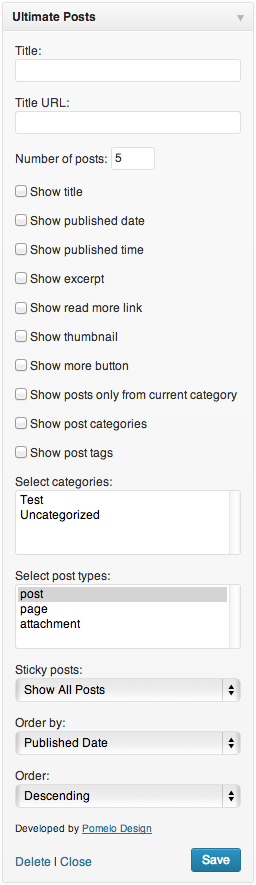
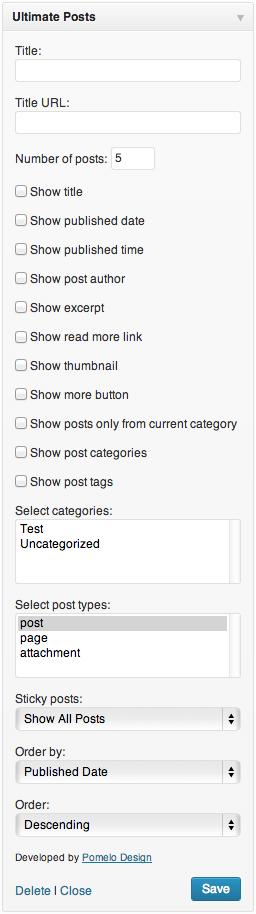
v1.7

diff --git a/ultimate-posts-widget.php b/ultimate-posts-widget.php
@@ -1,10 +1,10 @@
 <?php
 /*
 Plugin Name: Ultimate Posts Widget
-Plugin URI: http://pomelodesign.com/ultimate-posts-widget
+Plugin URI: http://wordpress.org/plugins/ultimate-posts-widget/
 Description: The ultimate widget for displaying posts, custom post types or sticky posts with an array of options.
-Version: 1.6
-Author: Pomelo Design
+Version: 1.7
+Author: Boston Dell-Vandenberg
 Author URI: http://pomelodesign.com
 License: GPL2
 
@@ -42,6 +42,9 @@ if ( !class_exists( 'WP_Widget_Ultimate_Posts' ) ) {
 		}
 
 		function widget( $args, $instance ) {
+
+			global $post;
+			$current_post_id =  $post->ID;
 
 			if( !function_exists('get_image_path') ) {
 				function get_image_path($src) {
@@ -144,11 +147,9 @@ if ( !class_exists( 'WP_Widget_Ultimate_Posts' ) ) {
 
 				while ( $r->have_posts() ) : $r->the_post();
 
-					global $post;
-
 					?>
 
-					<li>
+					<li class="<?php echo ($post->ID == $current_post_id && is_single())?'current-post-item':'' ?>">
 
 						<?php
 							if ( function_exists('the_post_thumbnail') &&
@@ -188,6 +189,13 @@ if ( !class_exists( 'WP_Widget_Ultimate_Posts' ) ) {
 										the_time(get_option('time_format'));
 									}
 									?>
+								</p>
+							<?php endif; ?>
+
+							<?php if( $instance['show_author'] ) : ?>
+								<p class="post-author">
+									<span class="post-author-label"><?php _e('By', 'upw'); ?>:</span>
+									<?php the_author_posts_link(); ?>
 								</p>
 							<?php endif; ?>
 
@@ -243,35 +251,32 @@ if ( !class_exists( 'WP_Widget_Ultimate_Posts' ) ) {
 		function update( $new_instance, $old_instance ) {
 			$instance = $old_instance;
 
-			//Let's turn that array into something the Wordpress database can store
-			$types = implode(',', (array)$new_instance['types']);
-			$cats = implode(',', (array)$new_instance['cats']);
-
 			$instance['title'] = strip_tags( $new_instance['title'] );
 			$instance['title_link'] = strip_tags( $new_instance['title_link'] );
 			$instance['number'] = strip_tags( $new_instance['number'] );
-			$instance['types'] = $types;
-			$instance['cats'] = $cats;
-			$instance['atcat'] = $new_instance['atcat'];
-			$instance['show_excerpt'] = $new_instance['show_excerpt'];
-			$instance['show_thumbnail'] = $new_instance['show_thumbnail'];
-			$instance['show_date'] = $new_instance['show_date'];
-			$instance['show_time'] = $new_instance['show_time'];
-			$instance['show_title'] = $new_instance['show_title'];
+			$instance['types'] = (isset( $new_instance['types'] )) ? implode(',', (array) $new_instance['types']) : '';
+			$instance['cats'] = (isset( $new_instance['cats'] )) ? implode(',', (array) $new_instance['cats']) : '';
+			$instance['atcat'] = isset( $new_instance['atcat'] );
+			$instance['show_excerpt'] = isset( $new_instance['show_excerpt'] );
+			$instance['show_thumbnail'] = isset( $new_instance['show_thumbnail'] );
+			$instance['show_date'] = isset( $new_instance['show_date'] );
+			$instance['show_time'] = isset( $new_instance['show_time'] );
+			$instance['show_title'] = isset( $new_instance['show_title'] );
+			$instance['show_author'] = isset( $new_instance['show_author'] );
 			$instance['thumb_w'] = strip_tags( $new_instance['thumb_w'] );
 			$instance['thumb_h'] = strip_tags( $new_instance['thumb_h'] );
 			$instance['thumb_crop'] = $new_instance['thumb_crop'];
-			$instance['show_readmore'] = $new_instance['show_readmore'];
+			$instance['show_readmore'] = isset( $new_instance['show_readmore']);
 			$instance['excerpt_length'] = strip_tags( $new_instance['excerpt_length'] );
 			$instance['excerpt_readmore'] = strip_tags( $new_instance['excerpt_readmore'] );
 			$instance['sticky'] = $new_instance['sticky'];
 			$instance['order'] = $new_instance['order'];
 			$instance['orderby'] = $new_instance['orderby'];
-			$instance['show_morebutton'] = $new_instance['show_morebutton'];
+			$instance['show_morebutton'] = isset( $new_instance['show_morebutton'] );
 			$instance['morebutton_url'] = strip_tags( $new_instance['morebutton_url'] );
 			$instance['morebutton_text'] = strip_tags( $new_instance['morebutton_text'] );
-			$instance['show_cats'] = $new_instance['show_cats'];
-			$instance['show_tags'] = $new_instance['show_tags'];
+			$instance['show_cats'] = isset( $new_instance['show_cats'] );
+			$instance['show_tags'] = isset( $new_instance['show_tags'] );
 
 
 			$this->flush_widget_cache();
@@ -292,53 +297,63 @@ if ( !class_exists( 'WP_Widget_Ultimate_Posts' ) ) {
 
 		function form( $instance ) {
 
-			// instance exist? if not set defaults
-			if ( $instance ) {
-				$title  = $instance['title'];
-				$title_link  = $instance['title_link'];
-				$number = $instance['number'];
-				$types  = $instance['types'];
-				$cats = $instance['cats'];
-				$thumb_w = $instance['thumb_w'];
-				$thumb_h = $instance['thumb_h'];
-				$thumb_crop = $instance['thumb_crop'];
-				$excerpt_length = $instance['excerpt_length'];
-				$excerpt_readmore = $instance['excerpt_readmore'];
-				$order = $instance['order'];
-				$orderby = $instance['orderby'];
-				$morebutton_text = $instance['morebutton_text'];
-				$morebutton_url = $instance['morebutton_url'];
-				$sticky = $instance['sticky'];
-				$show_cats = $instance['show_cats'];
-				$show_tags = $instance['show_tags'];
-			} else {
-				//These are our defaults
-				$title  = '';
-				$title_link = '';
-				$number = '5';
-				$types  = 'post';
-				$cats = '';
-				$thumb_w = 100;
-				$thumb_h = 100;
-				$thumb_crop = 1;
-				$excerpt_length = 10;
-				$excerpt_readmore = __('Read more &rarr;', 'upw');
-				$order = 'DESC';
-				$orderby = 'date';
-				$morebutton_text = __('View More Posts', 'upw');
-				$morebutton_url = get_bloginfo('url');
-				$sticky = 'show';
-				$instance['show_title'] = false;
-				$instance['show_date'] = false;
-				$instance['show_time'] = false;
-				$instance['show_excerpt'] = false;
-				$instance['show_readmore'] = false;
-				$instance['show_thumbnail'] = false;
-				$instance['show_morebutton'] = false;
-				$instance['atcat'] = false;
-				$instance['show_cats'] = false;
-				$instance['show_tags'] = false;
-			}
+			// Set default arguments
+			$instance = wp_parse_args( (array) $instance, array(
+				'title' => '',
+				'title_link' => '' ,
+				'number' => '5',
+				'types' => 'post',
+				'cats' => '',
+				'atcat' => false,
+				'thumb_w' => 100,
+				'thumb_h' => 100,
+				'thumb_crop' => 1,
+				'excerpt_length' => 10,
+				'excerpt_readmore' => __('Read more &rarr;', 'upw'),
+				'order' => 'DESC',
+				'orderby' => 'date',
+				'morebutton_text' => __('View More Posts', 'upw'),
+				'morebutton_url' => site_url(),
+				'sticky' => 'show',
+				'show_cats' => false,
+				'show_tags' => false,
+				'show_title' => false,
+				'show_date' => false,
+				'show_time' => false,
+				'show_author' => false,
+				'show_excerpt' => false,
+				'show_readmore' => false,
+				'show_thumbnail' => false,
+				'show_morebutton' => false
+			) );
+
+			// Or use the instance
+			$title  = strip_tags($instance['title']);
+			$title_link  = strip_tags($instance['title_link']);
+			$number = strip_tags($instance['number']);
+			$types  = $instance['types'];
+			$cats = $instance['cats'];
+			$atcat = $instance['atcat'];
+			$thumb_w = strip_tags($instance['thumb_w']);
+			$thumb_h = strip_tags($instance['thumb_h']);
+			$thumb_crop = strip_tags($instance['thumb_crop']);
+			$excerpt_length = strip_tags($instance['excerpt_length']);
+			$excerpt_readmore = strip_tags($instance['excerpt_readmore']);
+			$order = $instance['order'];
+			$orderby = $instance['orderby'];
+			$morebutton_text = strip_tags($instance['morebutton_text']);
+			$morebutton_url = strip_tags($instance['morebutton_url']);
+			$sticky = $instance['sticky'];
+			$show_cats = $instance['show_cats'];
+			$show_tags = $instance['show_tags'];
+			$show_title = $instance['show_title'];
+			$show_date = $instance['show_date'];
+			$show_time = $instance['show_time'];
+			$show_author = $instance['show_author'];
+			$show_excerpt = $instance['show_excerpt'];
+			$show_readmore = $instance['show_readmore'];
+			$show_thumbnail = $instance['show_thumbnail'];
+			$show_morebutton = $instance['show_morebutton'];
 
 			//Let's turn $types and $cats into an array
 			$types = explode(',', $types);
@@ -372,22 +387,27 @@ if ( !class_exists( 'WP_Widget_Ultimate_Posts' ) ) {
 			<input id="<?php echo $this->get_field_id( 'number' ); ?>" name="<?php echo $this->get_field_name( 'number' ); ?>" type="text" value="<?php echo $number; ?>" size="2" /></p>
 
 			<p>
-				<input class="checkbox" id="<?php echo $this->get_field_id( 'show_title' ); ?>" name="<?php echo $this->get_field_name( 'show_title' ); ?>" type="checkbox" <?php checked( (bool) $instance["show_title"], true ); ?> />
+				<input class="checkbox" id="<?php echo $this->get_field_id( 'show_title' ); ?>" name="<?php echo $this->get_field_name( 'show_title' ); ?>" type="checkbox" <?php checked( (bool) $show_title, true ); ?> />
 				<label for="<?php echo $this->get_field_id( 'show_title' ); ?>"><?php _e( 'Show title', 'upw' ); ?></label>
 			</p>
 
 			<p>
-				<input class="checkbox" id="<?php echo $this->get_field_id( 'show_date' ); ?>" name="<?php echo $this->get_field_name( 'show_date' ); ?>" type="checkbox" <?php checked( (bool) $instance["show_date"], true ); ?> />
+				<input class="checkbox" id="<?php echo $this->get_field_id( 'show_date' ); ?>" name="<?php echo $this->get_field_name( 'show_date' ); ?>" type="checkbox" <?php checked( (bool) $show_date, true ); ?> />
 				<label for="<?php echo $this->get_field_id( 'show_date' ); ?>"><?php _e( 'Show published date', 'upw' ); ?></label>
 			</p>
 
 			<p>
-				<input class="checkbox" id="<?php echo $this->get_field_id( 'show_time' ); ?>" name="<?php echo $this->get_field_name( 'show_time' ); ?>" type="checkbox" <?php checked( (bool) $instance["show_time"], true ); ?> />
+				<input class="checkbox" id="<?php echo $this->get_field_id( 'show_time' ); ?>" name="<?php echo $this->get_field_name( 'show_time' ); ?>" type="checkbox" <?php checked( (bool) $show_time, true ); ?> />
 				<label for="<?php echo $this->get_field_id( 'show_time' ); ?>"><?php _e( 'Show published time', 'upw' ); ?></label>
 			</p>
 
 			<p>
-				<input class="checkbox" id="<?php echo $this->get_field_id( 'show_excerpt' ); ?>" name="<?php echo $this->get_field_name( 'show_excerpt' ); ?>" type="checkbox" <?php checked( (bool) $instance["show_excerpt"], true ); ?> />
+				<input class="checkbox" id="<?php echo $this->get_field_id( 'show_author' ); ?>" name="<?php echo $this->get_field_name( 'show_author' ); ?>" type="checkbox" <?php checked( (bool) $show_author, true ); ?> />
+				<label for="<?php echo $this->get_field_id( 'show_author' ); ?>"><?php _e( 'Show post author', 'upw' ); ?></label>
+			</p>
+
+			<p>
+				<input class="checkbox" id="<?php echo $this->get_field_id( 'show_excerpt' ); ?>" name="<?php echo $this->get_field_name( 'show_excerpt' ); ?>" type="checkbox" <?php checked( (bool) $show_excerpt, true ); ?> />
 				<label for="<?php echo $this->get_field_id( 'show_excerpt' ); ?>"><?php _e( 'Show excerpt', 'upw' ); ?></label>
 			</p>
 
@@ -398,7 +418,7 @@ if ( !class_exists( 'WP_Widget_Ultimate_Posts' ) ) {
 
 			<p>
 				<label for="<?php echo $this->get_field_id('show_readmore'); ?>">
-				<input type="checkbox" class="checkbox" id="<?php echo $this->get_field_id('show_readmore'); ?>" name="<?php echo $this->get_field_name('show_readmore'); ?>"<?php checked( (bool) $instance["show_readmore"], true ); ?> />
+				<input type="checkbox" class="checkbox" id="<?php echo $this->get_field_id('show_readmore'); ?>" name="<?php echo $this->get_field_name('show_readmore'); ?>"<?php checked( (bool) $show_readmore, true ); ?> />
 				<?php _e( 'Show read more link', 'upw' ); ?>
 				</label>
 			</p>
@@ -411,7 +431,7 @@ if ( !class_exists( 'WP_Widget_Ultimate_Posts' ) ) {
 			<?php if ( function_exists('the_post_thumbnail') && current_theme_supports( 'post-thumbnails' ) ) : ?>
 
 				<p>
-					<input class="checkbox" id="<?php echo $this->get_field_id( 'show_thumbnail' ); ?>" name="<?php echo $this->get_field_name( 'show_thumbnail' ); ?>" type="checkbox" <?php checked( (bool) $instance["show_thumbnail"], true ); ?> />
+					<input class="checkbox" id="<?php echo $this->get_field_id( 'show_thumbnail' ); ?>" name="<?php echo $this->get_field_name( 'show_thumbnail' ); ?>" type="checkbox" <?php checked( (bool) $show_thumbnail, true ); ?> />
 					<label for="<?php echo $this->get_field_id( 'show_thumbnail' ); ?>"><?php _e( 'Show thumbnail', 'upw' ); ?></label>
 				</p>
 
@@ -440,7 +460,7 @@ if ( !class_exists( 'WP_Widget_Ultimate_Posts' ) ) {
 			<?php endif; ?>
 
 			<p>
-				<input type="checkbox" class="checkbox" id="<?php echo $this->get_field_id('show_morebutton'); ?>" name="<?php echo $this->get_field_name('show_morebutton'); ?>" <?php checked( (bool) $instance['show_morebutton'], true ); ?> />
+				<input type="checkbox" class="checkbox" id="<?php echo $this->get_field_id('show_morebutton'); ?>" name="<?php echo $this->get_field_name('show_morebutton'); ?>" <?php checked( (bool) $show_morebutton, true ); ?> />
 				<label for="<?php echo $this->get_field_id('show_morebutton'); ?>"> <?php _e('Show more button', 'upw'); ?></label>
 			</p>
 
@@ -455,17 +475,17 @@ if ( !class_exists( 'WP_Widget_Ultimate_Posts' ) ) {
 			</p>
 
 			<p>
-				<input type="checkbox" class="checkbox" id="<?php echo $this->get_field_id('atcat'); ?>" name="<?php echo $this->get_field_name('atcat'); ?>" <?php checked( (bool) $instance['atcat'], true ); ?> />
+				<input type="checkbox" class="checkbox" id="<?php echo $this->get_field_id('atcat'); ?>" name="<?php echo $this->get_field_name('atcat'); ?>" <?php checked( (bool) $atcat, true ); ?> />
 				<label for="<?php echo $this->get_field_id('atcat'); ?>"> <?php _e('Show posts only from current category', 'upw');?></label>
 			</p>
 
 			<p>
-				<input type="checkbox" class="checkbox" id="<?php echo $this->get_field_id('show_cats'); ?>" name="<?php echo $this->get_field_name('show_cats'); ?>" <?php checked( (bool) $instance['show_cats'], true ); ?> />
+				<input type="checkbox" class="checkbox" id="<?php echo $this->get_field_id('show_cats'); ?>" name="<?php echo $this->get_field_name('show_cats'); ?>" <?php checked( (bool) $show_cats, true ); ?> />
 				<label for="<?php echo $this->get_field_id('show_cats'); ?>"> <?php _e('Show post categories', 'upw'); ?></label>
 			</p>
 
 			<p>
-				<input type="checkbox" class="checkbox" id="<?php echo $this->get_field_id('show_tags'); ?>" name="<?php echo $this->get_field_name('show_tags'); ?>" <?php checked( (bool) $instance['show_tags'], true ); ?> />
+				<input type="checkbox" class="checkbox" id="<?php echo $this->get_field_id('show_tags'); ?>" name="<?php echo $this->get_field_name('show_tags'); ?>" <?php checked( (bool) $show_tags, true ); ?> />
 				<label for="<?php echo $this->get_field_id('show_tags'); ?>"> <?php _e('Show post tags', 'upw'); ?></label>
 			</p>
 
@@ -541,17 +561,17 @@ if ( !class_exists( 'WP_Widget_Ultimate_Posts' ) ) {
 						<?php
 						// Use PHP to determine if not checked and hide if so
 						// jQuery method was acting up
-						if ( !$instance['show_excerpt'] ) {
+						if ( !$show_excerpt ) {
 							echo 'excerpt_length.hide();';
 						}
-						if ( !$instance['show_readmore'] ) {
+						if ( !$show_readmore ) {
 							echo 'excerpt_readmore.hide();';
 						}
-						if ( !$instance['show_thumbnail'] ) {
+						if ( !$show_thumbnail ) {
 							echo 'thumb_w.hide();';
 							echo 'thumb_crop.hide();';
 						}
-						if ( !$instance['show_morebutton'] ) {
+						if ( !$show_morebutton ) {
 							echo 'morebutton_text.hide();';
 							echo 'morebutton_url.hide();';
 						}
